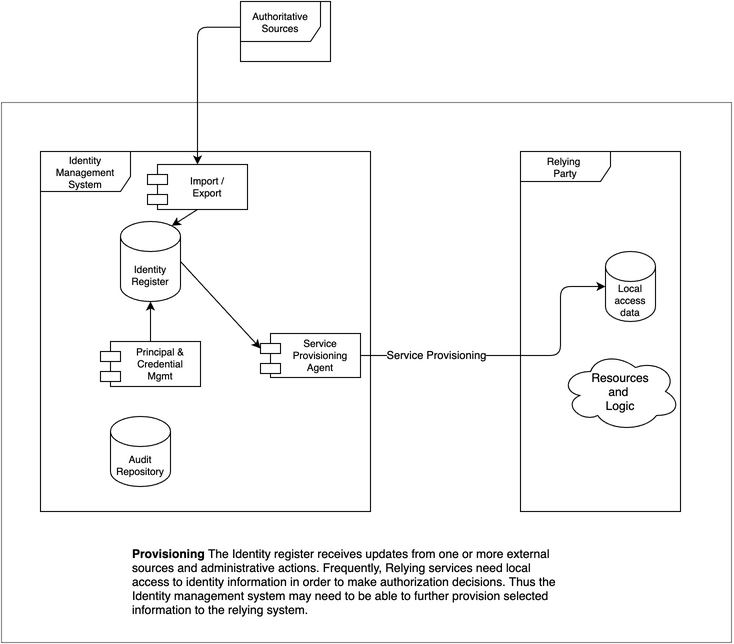
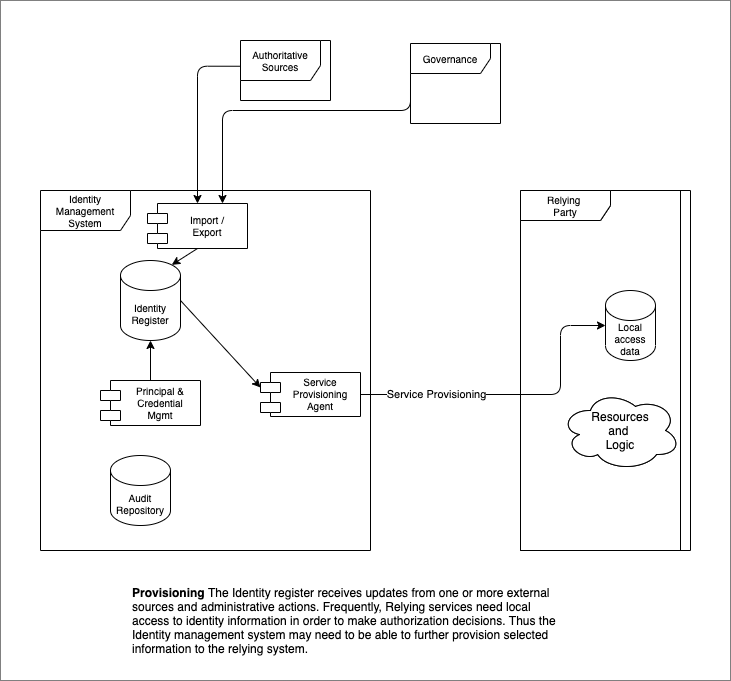
issue #2

diff --git a/tech-arch.md b/tech-arch.md
@@ -82,9 +82,11 @@ Control data that allows the Identity Management System to recognize and trust t
 Provisioning
 ------------
 
-Provisioning describes how the data gets into the identity repository and how it flows further on to support authorization decisions.
+Provisioning is a term that encompases the processes and methods that create, modify, and, eventually, delete the identity and profile information used by IT infrastructure and business applications. By these methods the data gets into the identity repository.  Often provisioing needs to extend to applications  to support authorization decisions.
 
 Note that the Authoritative Sources for identity attributes transcend the HR system and may include the email system, phone system, training certification etc. In some cases, a company may have more than one HR system.
+
+The act of provisioning may include certain logic, best modeled as governance.  In some cases the IGA system actually takes on all the provisioning duties.
 
 Also note, the notion of importing data does not necessarily mean making a physical copy of data, although it often does. The notion also supports the idea of virtualization - where the import of identity information is done at run-time.
 
@@ -93,6 +95,8 @@ The Identity Register could be implemented in several ways. Common methods inclu
 Also shown, is the Principal and Credential Management function. This is intended to include steps needed to originate an identity (such as proofing or vetting) as well as on-going maintenance such as password reset and other credential management activities such as token provisioning. This function includes administrative activities and self-serve activities.
 
 Also noted is the function of propagating selected information further into the ecosystem. This typically occurs when a relying services needs additional information about the users, e.g. for the purpose of access control, or personalization. The relying system makes a copy of the identity data and that is used in the application processes. A complete solution will allow for the full lifecycle including creation, update and eventual deletion of the identity data stored locally.
+
+So far, the provisioning function is restricted to "admin-time".  However, there are some cases where provisioning occurs at run time. 
 
 Not shown here, but sometimes implemented, are provisioning actions that occur on a just-in-time basis. This can happen when additional identity information is passed to a relying service in real-time to support a specific application requirement, possibly including identity attributes. A similar case involves the relying service querying the identity management system in order to acquire attributes.
 
